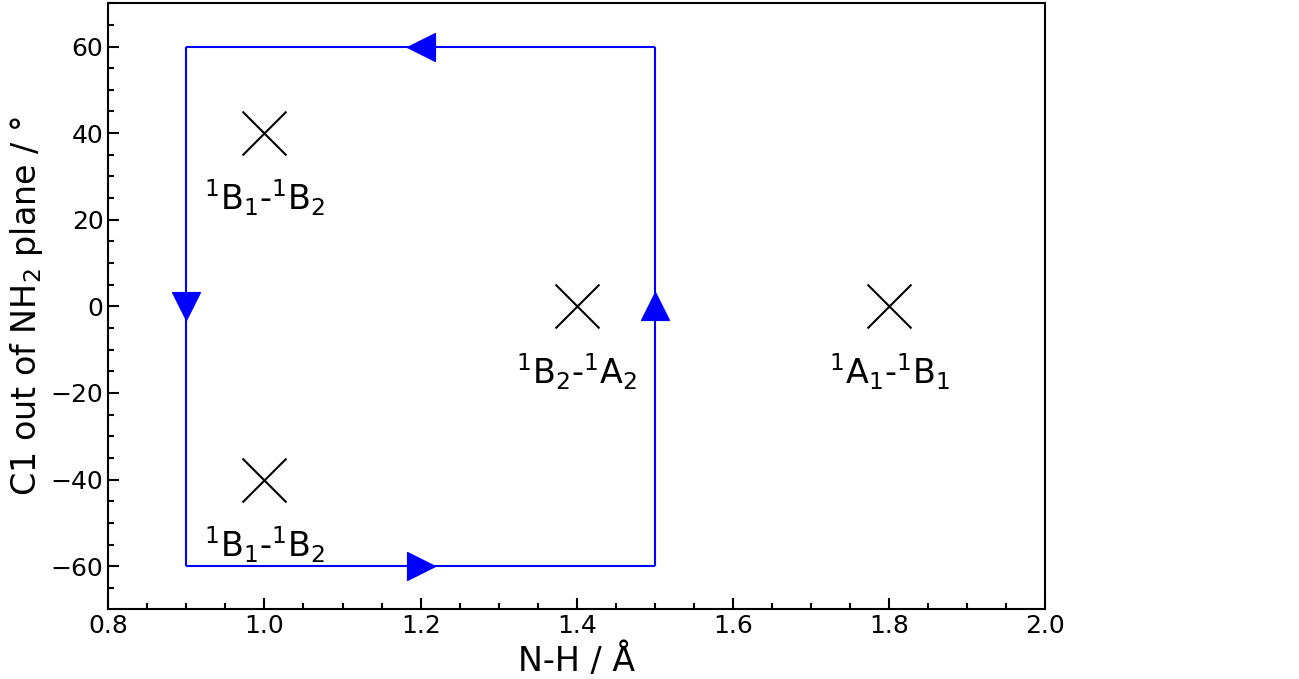
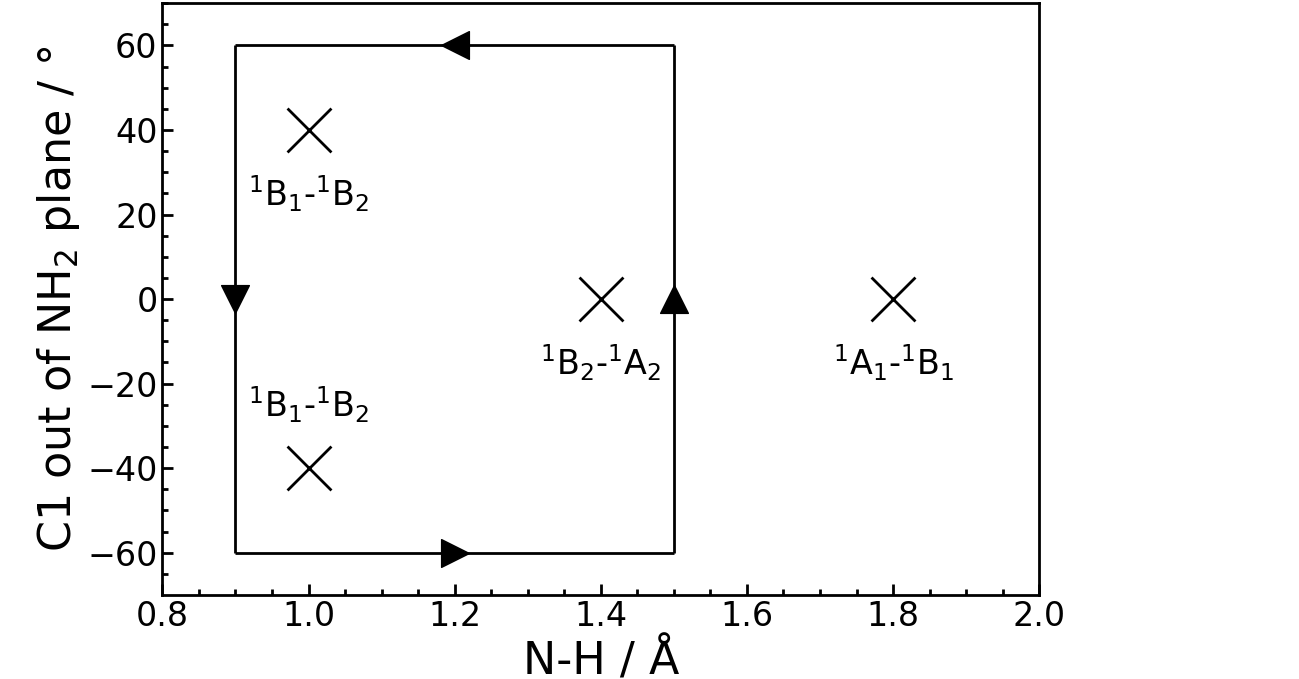
plot induced geometric phase

diff --git a/diabatz/analysis/loop/induced-geometric-phase/data.py b/diabatz/analysis/loop/induced-geometric-phase/data.py
@@ -11,25 +11,99 @@ def read_integrals(log:Path) -> np.ndarray:
             integrals[i, j] = float(strs[j])
     return integrals
 
+def read_hcenter_integrals(log:Path) -> np.ndarray:
+    with open(log, 'r') as f: lines = f.readlines()
+    integrals = np.empty((4, 4))
+    for i in range(4):
+        line = lines[i + 26]
+        strs = line.split()
+        for j in range(4):
+            integrals[i, j] = float(strs[j])
+    return integrals
+
+# lower
 g_lower = np.array([
     0.9, # lower left
-    0.91, 0.92, 0.93, 0.94, 0.95, 0.96, 0.97, 0.98, 0.99,
-    1.0, 1.1, 1.2, 1.3, 1.4, 1.5,
+    0.91, 0.92, 0.93, 0.94, 0.95, 0.96, 0.97, 0.98, 0.99, # fine grids
+    1.0,
+    1.01, 1.02, 1.03, 1.04, 1.05, 1.06, 1.07, 1.08, 1.09, # fine grids
+    1.1, 1.2, 1.3, 1.4, 1.5,
     1.6  # lower right
 ])
-assert g_lower.shape == (17,)
-h_lower = np.empty(17)
+assert g_lower.shape == (26,)
+h_lower = np.empty(g_lower.shape)
 h_lower[:] = -60.0
-integral_lower = np.empty((17, 4, 4))
+integral_lower = np.empty((g_lower.shape[0], 4, 4))
 integral_lower[0, :] = read_integrals("corner/lower-left.log")
-for i in range(1, 16):
+for i in range(1, integral_lower.shape[0] - 1):
     integral_lower[i, :] = read_integrals("lower/lower-" + str(g_lower[i]) + ".log")
-integral_lower[16, :] = read_integrals("corner/lower-right.log")
+integral_lower[-1, :] = read_integrals("corner/lower-right.log")
+
+# upper
+g_upper = np.array([
+    0.9, # upper left
+    0.91, 0.92, 0.93, 0.94, 0.95, 0.96, 0.97, 0.98, 0.99, # fine grids
+    1.0,
+    1.01, 1.02, 1.03, 1.04, 1.05, 1.06, 1.07, 1.08, 1.09, # fine grids
+    1.1, 1.2, 1.3, 1.4, 1.5,
+    1.6  # upper right
+])
+assert g_upper.shape == (26,)
+h_upper = np.empty(g_upper.shape)
+h_upper[:] = -60.0
+integral_upper = np.empty((g_upper.shape[0], 4, 4))
+integral_upper[0, :] = read_integrals("corner/upper-left.log")
+for i in range(1, integral_upper.shape[0] - 1):
+    integral_upper[i, :] = read_integrals("upper/upper-" + str(g_upper[i]) + ".log")
+integral_upper[-1, :] = read_integrals("corner/upper-right.log")
+g_upper = g_upper[::-1]
+integral_upper = integral_upper[::-1, ...]
+
+# left
+g_left = np.empty(31)
+g_left[:] = 0.9
+h_left = np.arange(15, -16, -1) / 10
+assert h_left.shape == g_left.shape
+integral_left = np.empty((g_left.shape[0], 4, 4))
+integral_left[0, :] = read_integrals("corner/upper-left.log")
+for i in range(1, integral_left.shape[0] - 1):
+    integral_left[i, :] = read_hcenter_integrals("left/left-" + str(h_left[i]) + ".log")
+integral_left[-1, :] = read_integrals("corner/lower-left.log")
+
+# right
+g_right = np.empty(31)
+g_right[:] = 0.9
+h_right = np.arange(-15, 16, 1) / 10
+assert h_right.shape == g_right.shape
+integral_right = np.empty((g_right.shape[0], 4, 4))
+integral_right[0, :] = read_integrals("corner/lower-right.log")
+for i in range(1, integral_right.shape[0] - 1):
+    integral_right[i, :] = read_hcenter_integrals("right/right-" + str(h_right[i]) + ".log")
+integral_right[-1, :] = read_integrals("corner/upper-right.log")
 
 if __name__ == "__main__":
     import matplotlib.pyplot as plt
+    # lower
     integral_lower = np.abs(integral_lower) / np.pi
     for i in range(3):
         for j in range(i, 4):
             plt.plot(g_lower, integral_lower[:, i, j])
+    plt.show()
+    # upper
+    integral_upper = np.abs(integral_upper) / np.pi
+    for i in range(3):
+        for j in range(i, 4):
+            plt.plot(g_upper, integral_upper[:, i, j])
+    plt.show()
+    # left
+    integral_left = np.abs(integral_left) / np.pi
+    for i in range(3):
+        for j in range(i, 4):
+            plt.plot(h_left, integral_left[:, i, j])
+    plt.show()
+    # right
+    integral_right = np.abs(integral_right) / np.pi
+    for i in range(3):
+        for j in range(i, 4):
+            plt.plot(h_right, integral_right[:, i, j])
     plt.show()

diff --git a/diabatz/analysis/loop/induced-geometric-phase/plot_loop.py b/diabatz/analysis/loop/induced-geometric-phase/plot_loop.py
@@ -3,34 +3,34 @@ import matplotlib.pyplot as plt
 
 fig, ax = plt.subplots(1, 1)
 
-ax.scatter((1.0, 1.0, 1.4, 1.8), (-40.0, 40.0, 0.0, 0.0), s=1000, marker='x', facecolors="black", linewidth=1.5)
+ax.scatter((1.0, 1.0, 1.4, 1.8), (-40.0, 40.0, 0.0, 0.0), s=1000, marker='x', facecolors="black", linewidth=2)
 
-ax.text(1.0, -55.0, "$^1$B$_1$-$^1$B$_2$", fontsize=24, horizontalalignment="center", verticalalignment="center")
+ax.text(1.0, -25.0, "$^1$B$_1$-$^1$B$_2$", fontsize=24, horizontalalignment="center", verticalalignment="center")
 ax.text(1.0,  25.0, "$^1$B$_1$-$^1$B$_2$", fontsize=24, horizontalalignment="center", verticalalignment="center")
 ax.text(1.4, -15.0, "$^1$B$_2$-$^1$A$_2$", fontsize=24, horizontalalignment="center", verticalalignment="center")
 ax.text(1.8, -15.0, "$^1$A$_1$-$^1$B$_1$", fontsize=24, horizontalalignment="center", verticalalignment="center")
 
-ax.hlines(-60, 0.9, 1.5, colors="blue")
-ax.hlines( 60, 0.9, 1.5, colors="blue")
-ax.vlines(0.9, -60,  60, colors="blue")
-ax.vlines(1.5, -60,  60, colors="blue")
+ax.hlines(-60, 0.9, 1.5, colors="black", linewidth=2)
+ax.hlines( 60, 0.9, 1.5, colors="black", linewidth=2)
+ax.vlines(0.9, -60,  60, colors="black", linewidth=2)
+ax.vlines(1.5, -60,  60, colors="black", linewidth=2)
 
-ax.scatter(0.9, 0.0, marker='v', s=400, c="blue")
-ax.scatter(1.2, -60, marker='>', s=400, c="blue")
-ax.scatter(1.5, 0.0, marker='^', s=400, c="blue")
-ax.scatter(1.2,  60, marker='<', s=400, c="blue")
+ax.scatter(0.9, 0.0, marker='v', s=400, c="black")
+ax.scatter(1.2, -60, marker='>', s=400, c="black")
+ax.scatter(1.5, 0.0, marker='^', s=400, c="black")
+ax.scatter(1.2,  60, marker='<', s=400, c="black")
 
-ax.set_xlabel("N-H / Å"                   , fontsize=24)
-ax.set_ylabel("C1 out of NH$_2$ plane / °", fontsize=24)
+ax.set_xlabel("N-H / Å"                   , fontsize=32)
+ax.set_ylabel("C1 out of NH$_2$ plane / °", fontsize=32)
 
 ax.set_xlim(0.8, 2.0)
 ax.set_ylim(-70, 70)
 
-for side in ("top", "bottom", "left", "right"): ax.spines[side].set_linewidth(1.5)
-
-ax.tick_params(direction="in", length=8, width=1.5, labelsize=18)
-
 ax.minorticks_on()
-ax.tick_params(direction="in", length=4, width=1.5, which="minor")
+
+for side in ("top", "bottom", "left", "right"): ax.spines[side].set_linewidth(2)
+
+ax.tick_params(direction="in", length=8, width=2, labelsize=24)
+ax.tick_params(direction="in", length=4, width=2, which="minor")
 
 plt.show()

diff --git a/diabatz/analysis/loop/induced-geometric-phase/plot_integral.py b/diabatz/analysis/loop/induced-geometric-phase/plot_integral.py
@@ -1,0 +1,53 @@
+import numpy as np
+import matplotlib as mpl
+import matplotlib.pyplot as plt
+
+from data import h_left, g_lower, h_right, g_upper, \
+integral_left, integral_lower, integral_right, integral_upper
+
+integral = np.concatenate((integral_left, integral_lower, integral_right, integral_upper))
+integral = np.abs(integral) / np.pi
+
+x = np.empty(integral.shape[0])
+xindex = 0
+for i in range(h_left.shape[0]):
+    x[xindex] = (1.5 - h_left[i]) / 3.0 * 0.25
+    xindex += 1
+for i in range(g_lower.shape[0]):
+    x[xindex] = 0.25 + (g_lower[i] - 0.9) / 0.7 * 0.25
+    xindex += 1
+for i in range(h_right.shape[0]):
+    x[xindex] = 0.5 + (h_right[i] + 1.5) / 3.0 * 0.25
+    xindex += 1
+for i in range(g_upper.shape[0]):
+    x[xindex] = 0.75 + (1.6 - g_upper[i]) / 0.7 * 0.25
+    xindex += 1
+x *= 360
+
+fig, ax = plt.subplots()
+
+labels = ("12", "23", "34")
+colors = ("red", "purple", "cyan")
+lines = []
+for i in range(3):
+    line, = ax.plot(x, integral[:, i, i + 1], label="∳$\\vec{d}$$_{" + labels[i] + "}$•$\mathit{d}$$\\vec{r}$", c=colors[i], linewidth=2)
+    lines.append(line)
+
+ax.set_xlabel("starting location / °", fontsize=32, labelpad=8)
+ax.set_ylabel("∳$\\vec{d}$•$\mathit{d}$$\\vec{r}$ / π", fontsize=32, labelpad=8)
+
+ax.set_xlim(-15, 375)
+ax.set_ylim(-0.1, 2.1)
+
+ax.xaxis.set_major_locator(mpl.ticker.MultipleLocator(45))
+ax.minorticks_on()
+ax.xaxis.set_minor_locator(mpl.ticker.AutoMinorLocator(3))
+
+ax.tick_params(direction="in", length=8, width=2, labelsize=24)
+ax.tick_params(direction="in", length=4, width=2, which="minor")
+
+for side in ("top", "bottom", "left", "right"): ax.spines[side].set_linewidth(2)
+
+plt.legend(handles=lines, ncol=1, loc="center", bbox_to_anchor=(0.61, 0.74), fontsize=24, frameon=False)
+
+plt.show()
